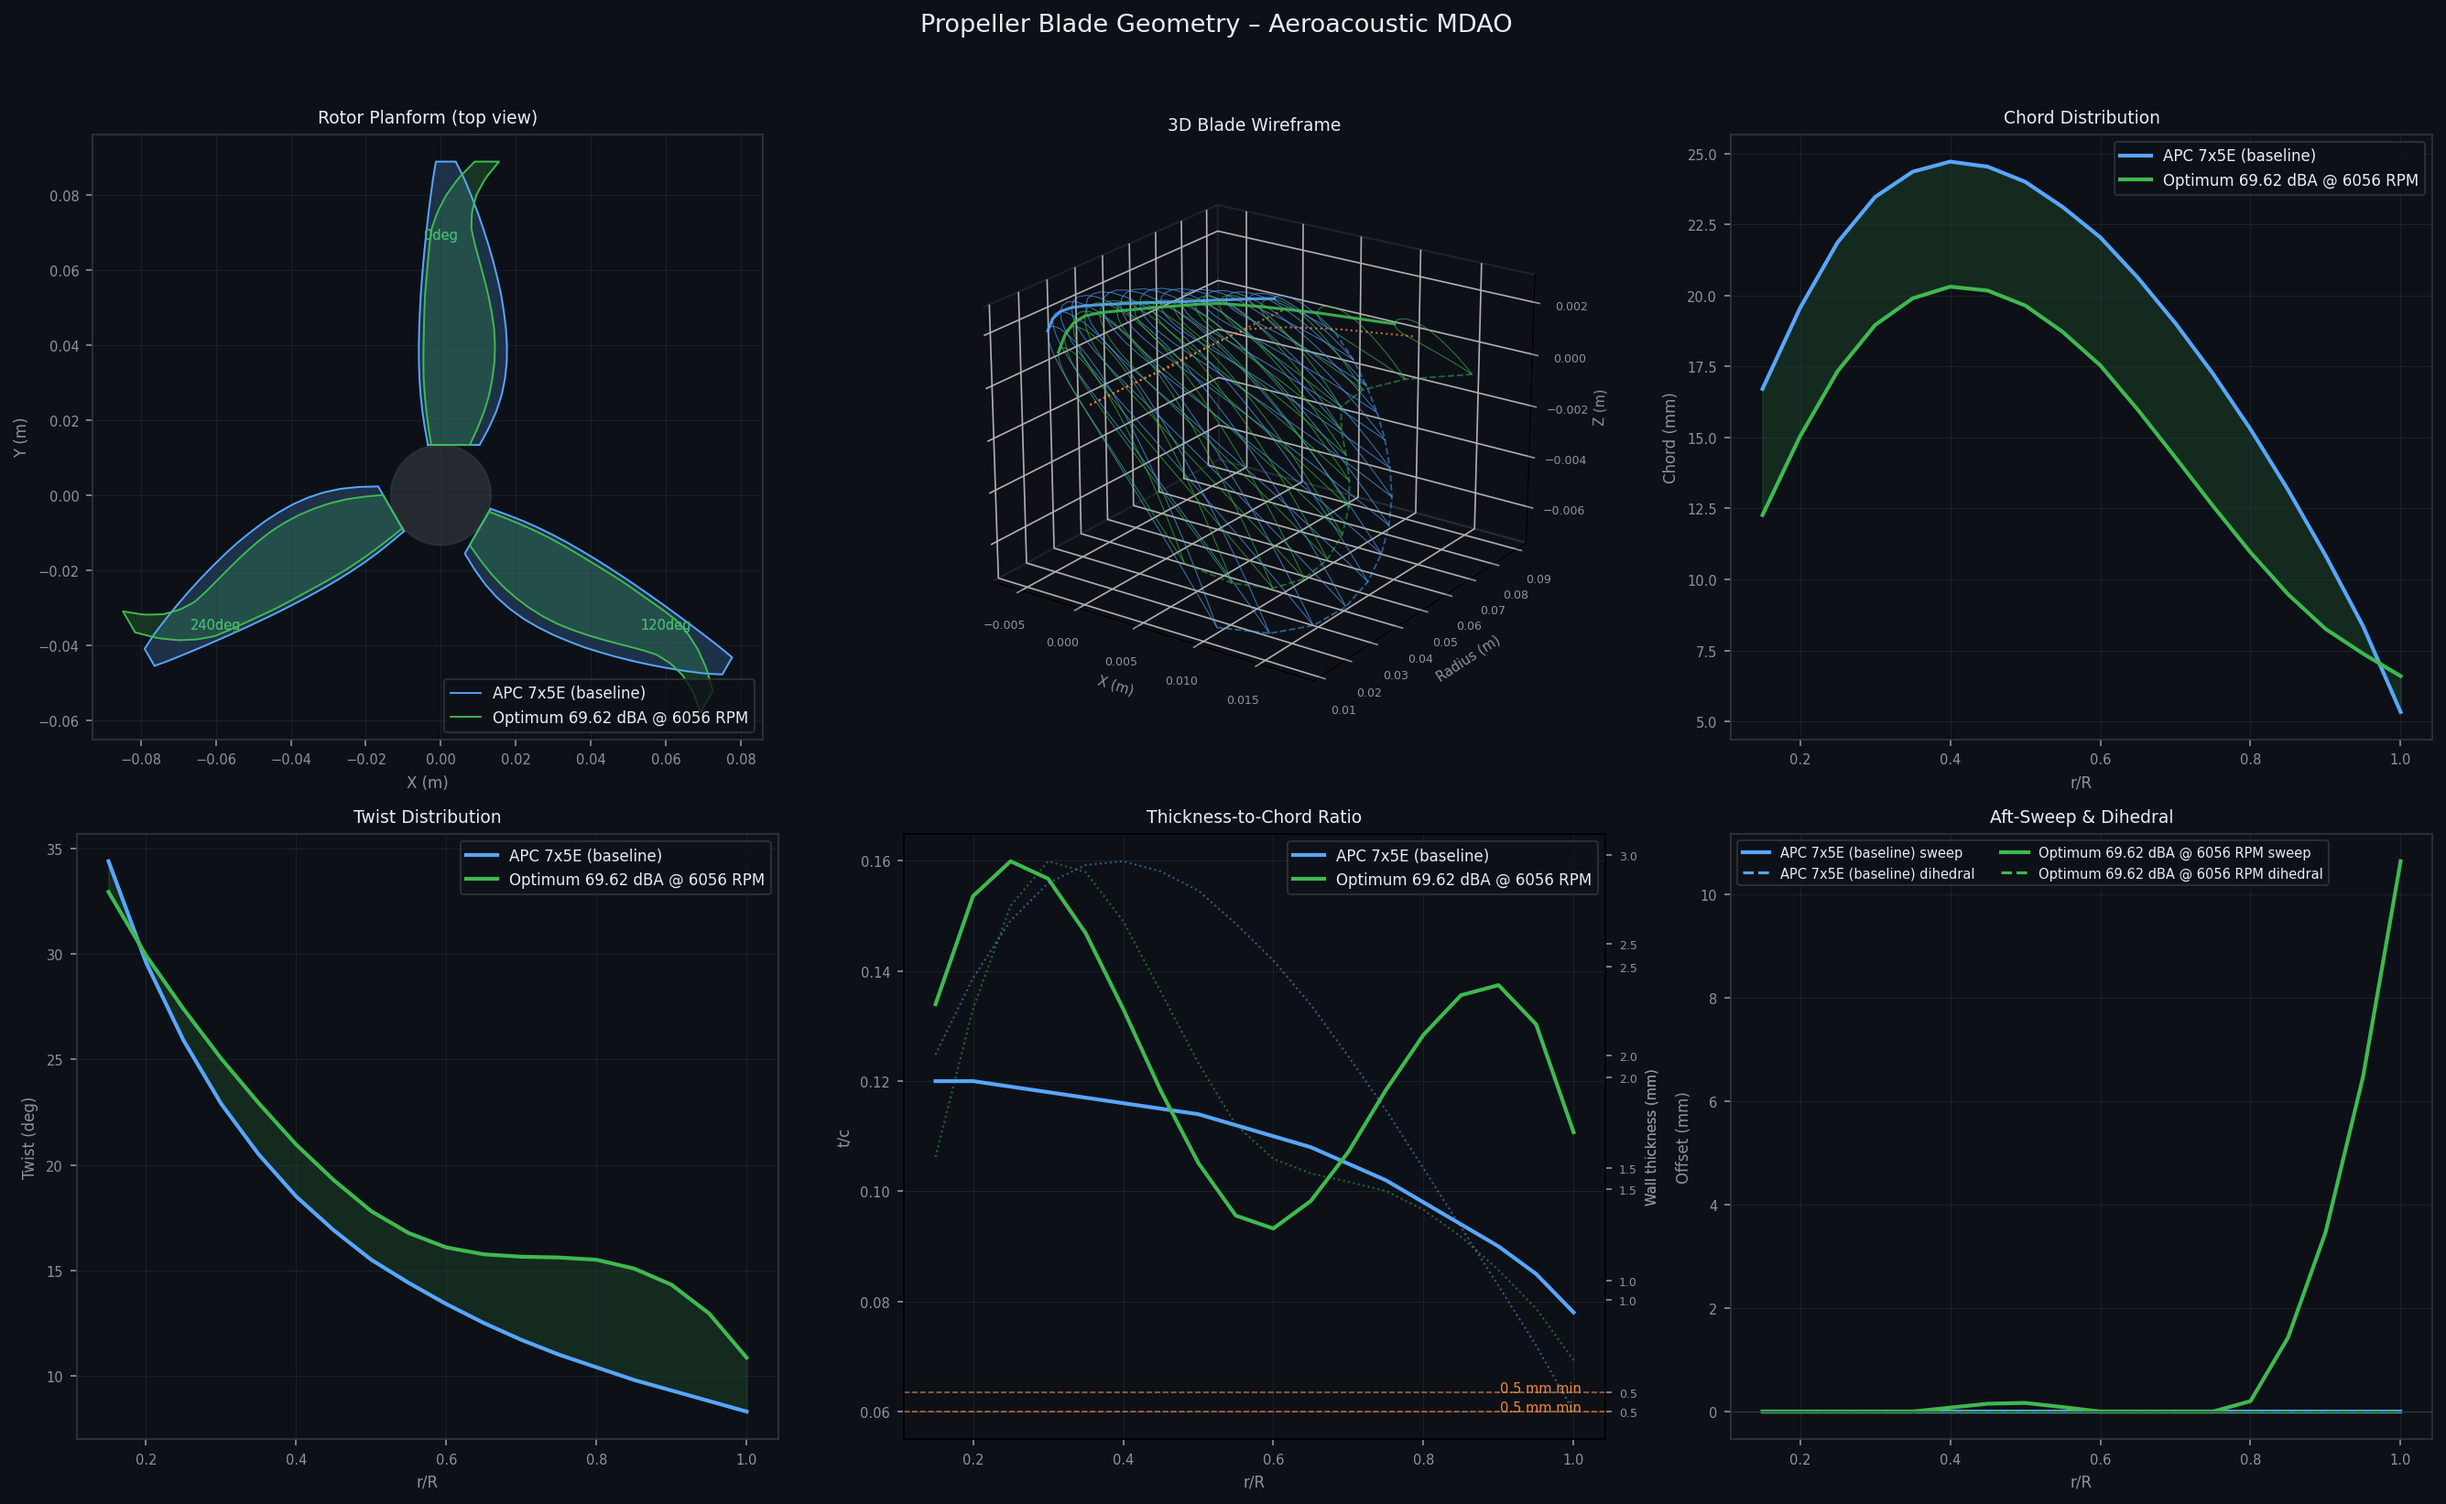
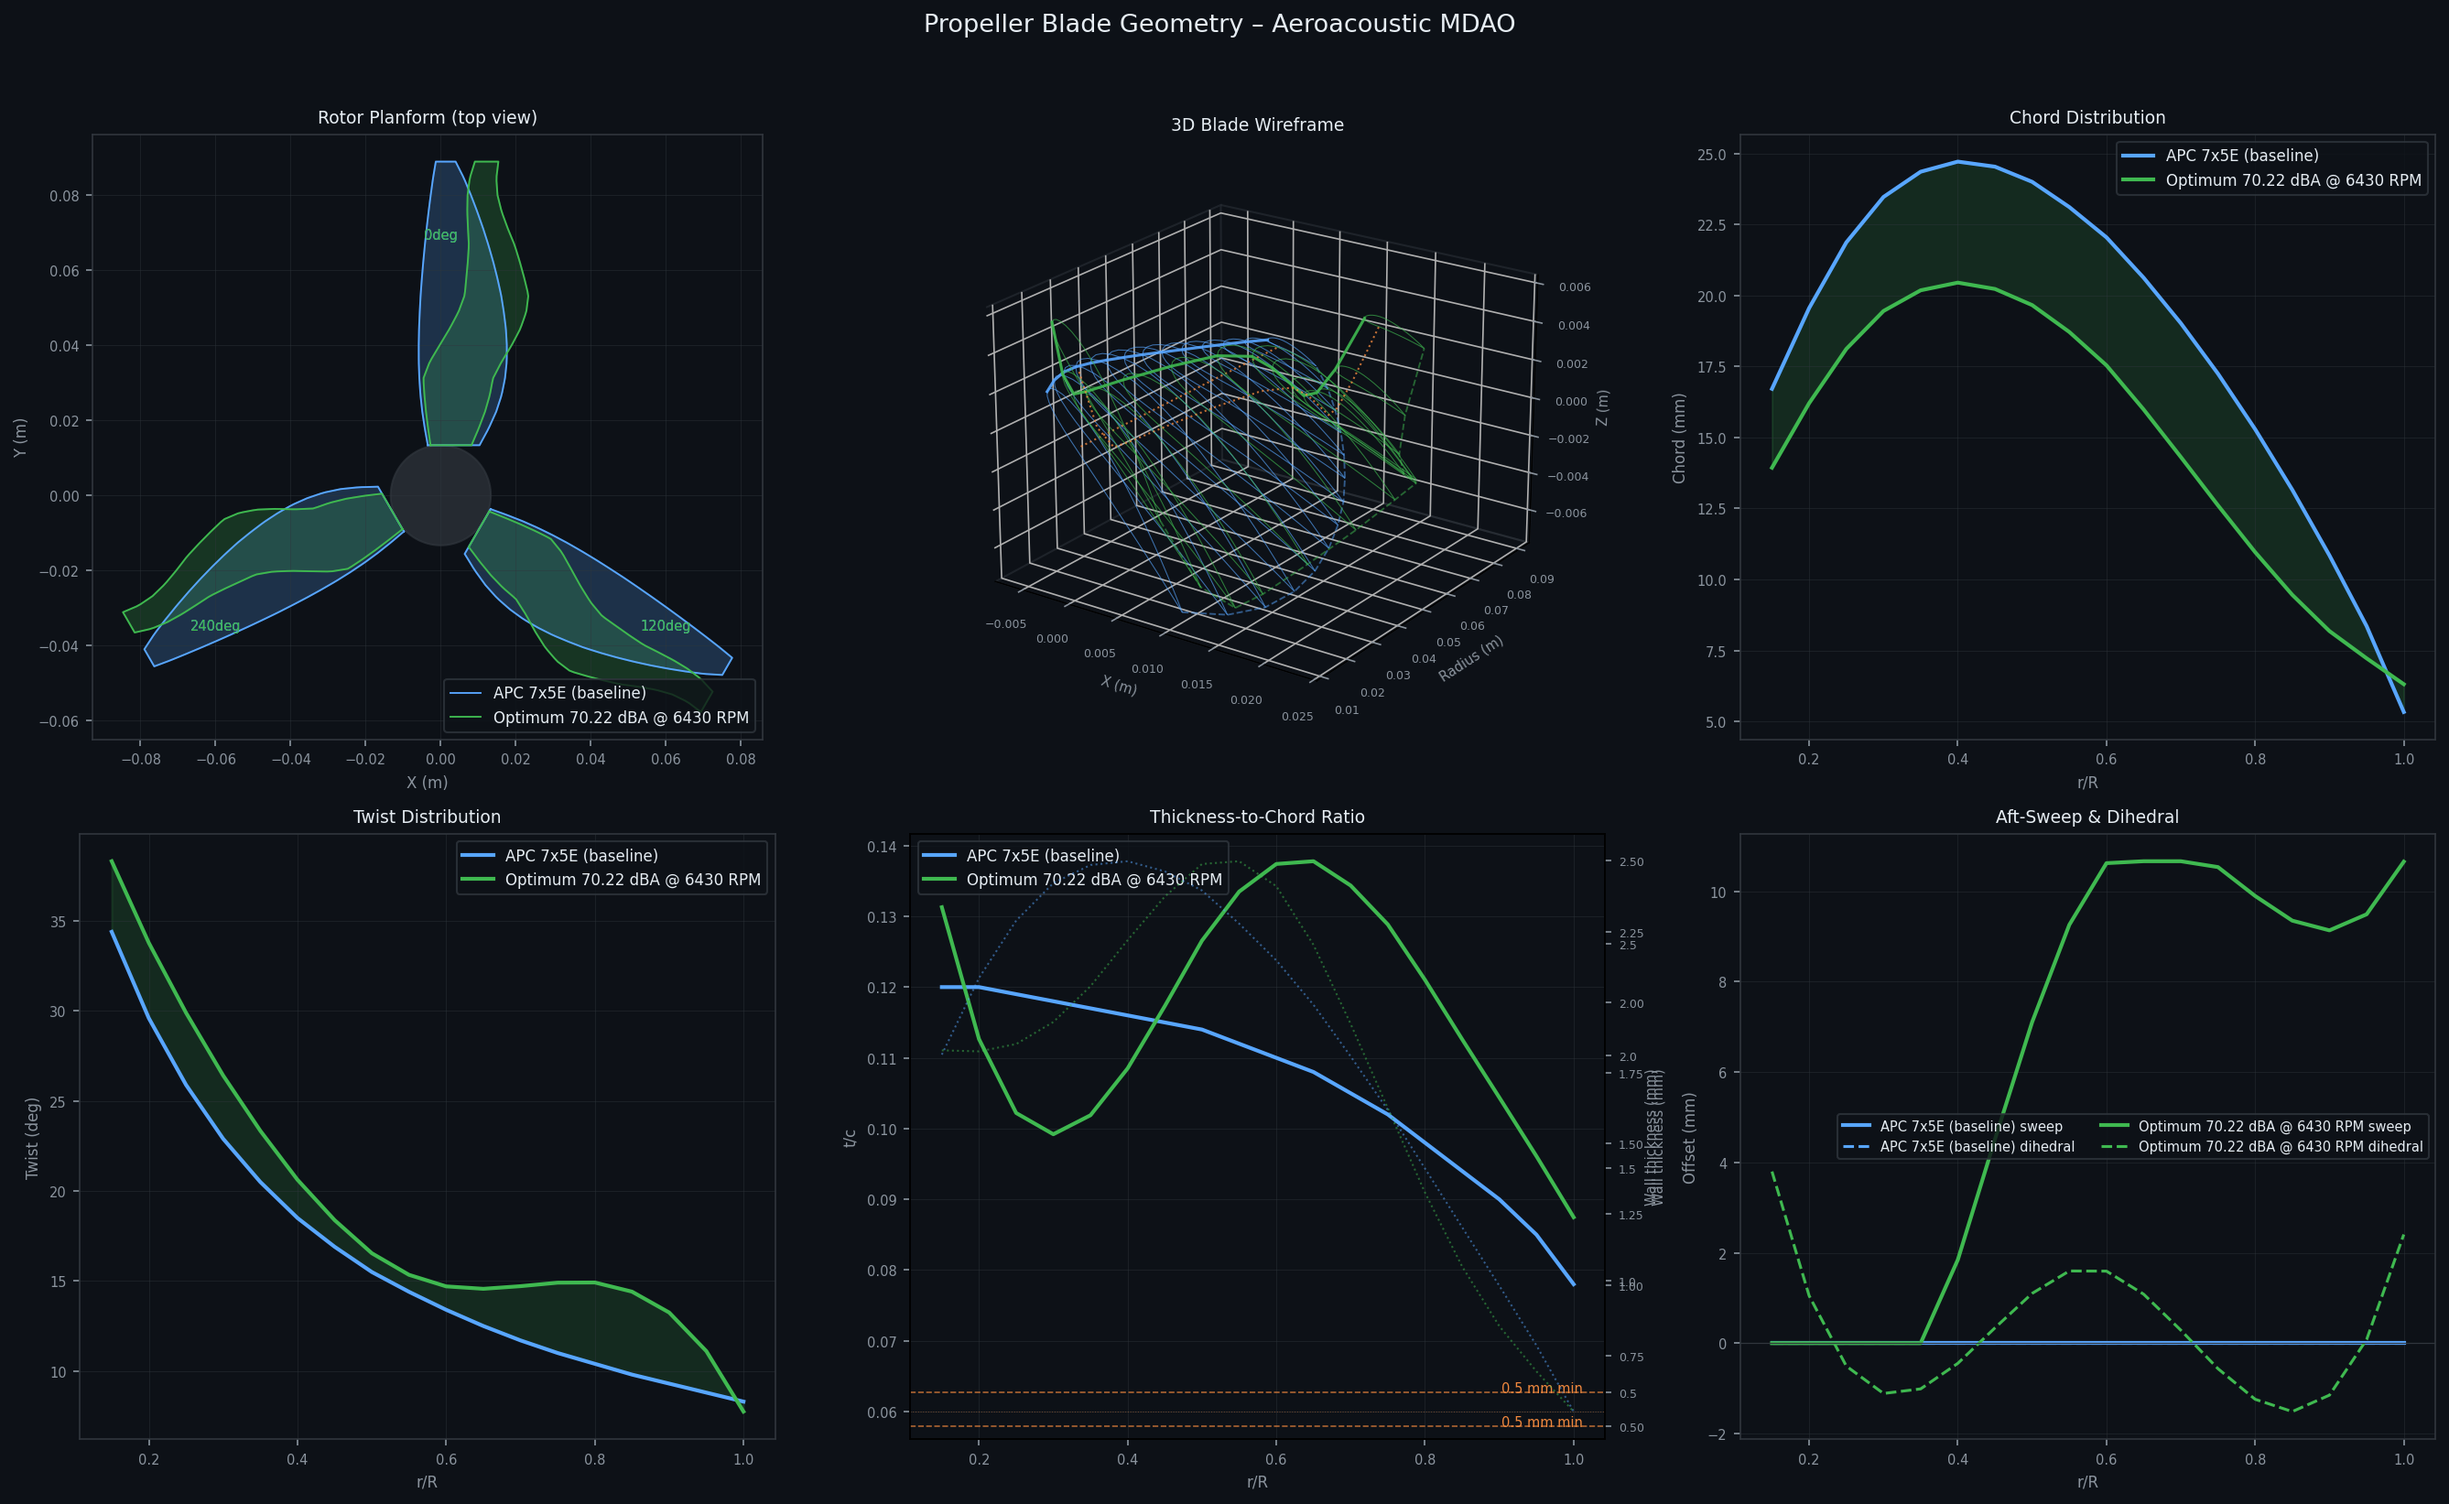
new

diff --git a/quiet-prop/optimization/mdao_problem.py b/quiet-prop/optimization/mdao_problem.py
@@ -556,7 +556,7 @@ def build_problem(thrust_min_hover=THRUST_HOVER_MIN,
 
     # ---- Design variables (21 active: 1 rpm + 4×5 spline CPs) -------------
     prob.model.add_design_var("rpm",            lower=RPM_LOWER, upper=RPM_UPPER, units="rpm")
-    prob.model.add_design_var("delta_twist_cp", lower=-5.0,  upper=5.0)
+    prob.model.add_design_var("delta_twist_cp", lower=-6.0,  upper=6.0)
     prob.model.add_design_var("delta_chord_cp", lower=-0.05, upper=0.03)
     prob.model.add_design_var("sweep_cp",       lower=0.0,   upper=0.12)
     prob.model.add_design_var("delta_tc_cp",    lower=-0.03, upper=0.04)
@@ -670,11 +670,9 @@ def run_multistart(n_starts=8, thrust_min_hover=THRUST_HOVER_MIN,
             dtc_cp = np.zeros(N_CP)
         else:
             rpm_i  = float(rng.uniform(6000.0, 8500.0))
-            # Control points: small random values biased toward noise-reducing directions.
-            # Spline guarantees smooth distributions at all starting points.
             dt_cp  = rng.uniform(-2.0, 2.0, N_CP)
-            dc_cp  = rng.uniform(-0.05, 0.01, N_CP)   # bias thin chord
-            sw_cp  = np.sort(rng.uniform(0.0, 0.10, N_CP))  # monotone sweep
+            dc_cp  = rng.uniform(-0.05, 0.01, N_CP)
+            sw_cp  = np.sort(rng.uniform(0.0, 0.10, N_CP))
             dtc_cp = rng.uniform(-0.02, 0.02, N_CP)
 
         prob_i = build_problem(thrust_min_hover=thrust_min_hover,
